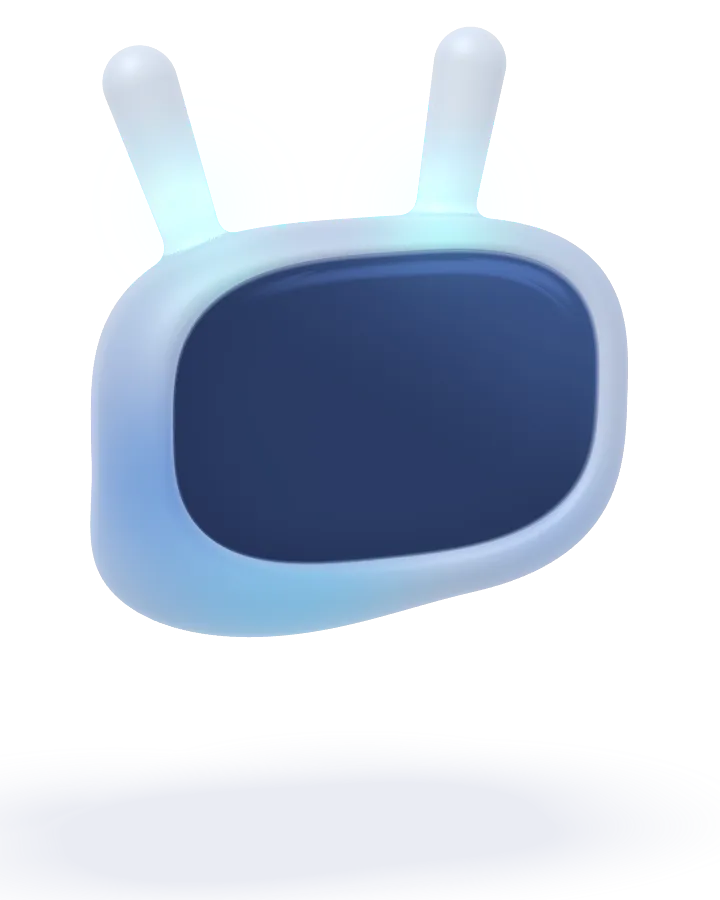
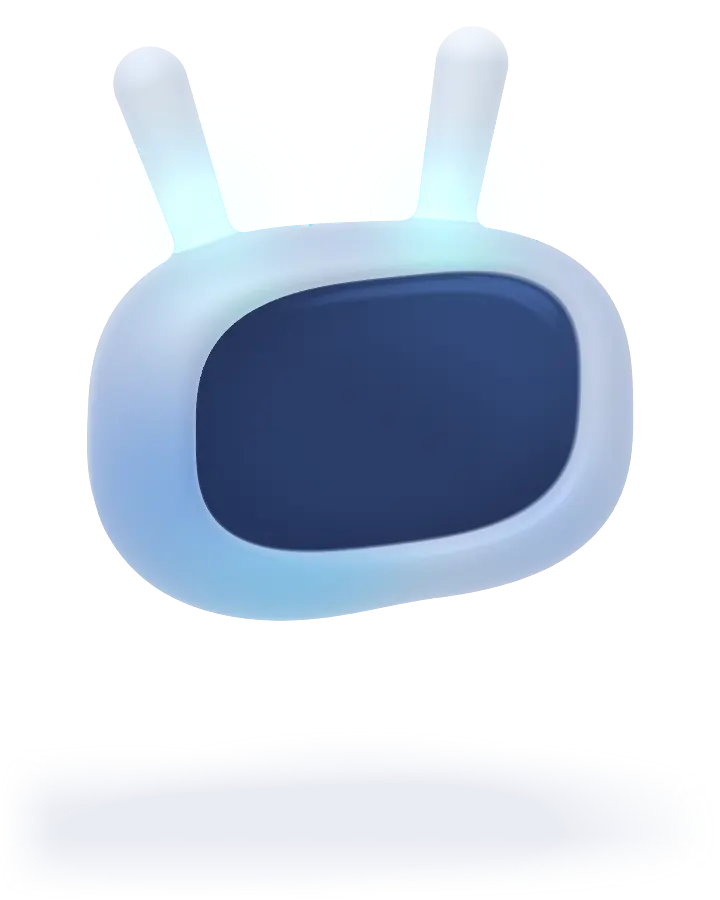
Tune Tall; fix idle-biased tier upgrades; posters, tap checks, report
- Tall: slim neck widening to the chest, mitten hand with a thumb,
  feet that flare into the leg, measured screen and 6° eye line,
  sampled blues on torso and limbs; IoU 0.901 (target 0.90)
- tier: samples taken at the idle ~20 fps only count toward stepping
  down; stepping up needs full-rate samples (Auto stepped up to High
  on a software GPU while idle)
- posters re-rendered from the final shapes (36–37 KB each)
- check:runtime also verifies tap hit-testing (WebGL and Low tiers);
  bench syncs on a 1-pixel readback (gl.finish returns early)
- REPORT.md with sizes, IoU and colour before/after, frame times

Claude-Session: https://claude.ai/code/session_01KKtKDkBDLmha6yDUenA8xH

diff --git a/src/variants.ts b/src/variants.ts
@@ -101,45 +101,49 @@ g += blob(t, vec3(0.0,-1.7,0.25), 0.3, vec3(0.5,0.8,0.9), 0.7);`,
   },
   tall: {
     label: 'Tall', floating: false, P0: [0, -0.6, 0], pivot: [0, -0.6, 0],
-    HS: [1, 0.7, 0.5], HN: 2.4, HE: 0.46, SHEAR: 0.07, TAPER: 0.0,
-    SH: [0.84, 0.52], SN: 3.0, SO: [0.0, 0.05], span: 1.0,
+    HS: [1.0, 0.7, 0.5], HN: 2.4, HE: 0.5, SHEAR: 0.06, SSHEAR: 0.103, TAPER: 0.0,
+    SH: [0.76, 0.465], SN: 3.0, SO: [-0.037, 0.05], span: 1.0,
     A: { bl: [-0.6, 0.53, -0.1], ml: [-0.685, 0.835, -0.1], tl: [-0.77, 1.14, -0.1], br: [0.41, 0.53, -0.12], mr: [0.435, 0.905, -0.12], tr: [0.46, 1.28, -0.12], r: [0.12, 0.125, 0.135] },
     warm: 0,
     extra: '',
+    // slim neck widening to the chest, flat flared feet, mitten hand with a thumb (MEASUREMENTS.md)
     body: `vec3 q = pb;
-float d = sdRC(vec3(q.x,q.y,q.z*1.3), vec3(-0.0200,-0.5800,0.0), vec3(-0.0200,-1.8000,0.0), 0.3200, 0.4200)/1.3;
-d = smin(d, sdEll(q-vec3(-0.0200,-1.2700,0.0), vec3(0.4200,0.6500,0.31)), 0.3000);
-float lg = min(sdRC(q, vec3(-0.2600,-2.0300,0.0), vec3(-0.2800,-3.8700,0.02), 0.1300, 0.1250), sdRC(q, vec3(0.2500,-2.0300,0.0), vec3(0.2700,-3.8700,0.02), 0.1350, 0.1250));
-lg = smin(lg, min(sdEll(q-vec3(-0.3600,-3.9500,0.06), vec3(0.2400,0.11,0.26)), sdEll(q-vec3(0.3000,-3.9500,0.06), vec3(0.2600,0.11,0.27))), 0.1);
+float d = sdRC(vec3(q.x,q.y,q.z*1.3), vec3(0.0000,-0.6200,0.0), vec3(0.0000,-1.7900,0.0), 0.2600, 0.4100)/1.3;
+d = smin(d, sdEll(q-vec3(0.0000,-1.1700,0.0), vec3(0.4600,0.6800,0.31)), 0.3000);
+float lg = min(sdRC(q, vec3(-0.2400,-1.9700,0.0), vec3(-0.2600,-3.9000,0.02), 0.1450, 0.1250), sdRC(q, vec3(0.2600,-1.9700,0.0), vec3(0.2800,-3.9000,0.02), 0.1500, 0.1250));
+lg = smin(lg, min(sdEll(q-vec3(-0.3000,-3.9500,0.06), vec3(0.2500,0.1,0.25)), sdEll(q-vec3(0.3000,-3.9500,0.06), vec3(0.2600,0.1,0.26))), 0.24);
 d = smin(d, lg, 0.1);
-vec3 l = q - vec3(-0.4600,-0.9600,0.0); l.xy = mat2(uArm.x,uArm.y,-uArm.y,uArm.x)*l.xy;
-float al = smin(sdRC(l, vec3(0.0), vec3(-0.2000,-0.4200,0.02), 0.1200, 0.1150), sdRC(l, vec3(-0.2000,-0.4200,0.02), vec3(-0.3800,-1.1200,0.04), 0.1150, 0.1050), 0.05);
-al = smin(al, sdEll(l-vec3(-0.3800,-1.5200,0.05), vec3(0.12,0.24,0.085)), 0.08);
-al = min(al, min(sdRC(l, vec3(-0.4500,-1.6200,0.06), vec3(-0.4700,-1.8000,0.09), 0.038, 0.034), sdRC(l, vec3(-0.3200,-1.6600,0.08), vec3(-0.3100,-1.8200,0.11), 0.038, 0.034)));
-vec3 r = q - vec3(0.5200,-1.0100,0.0); r.xy = mat2(uArm.z,uArm.w,-uArm.w,uArm.z)*r.xy;
+vec3 l = q - vec3(-0.4900,-1.0200,0.0); l.xy = mat2(uArm.x,uArm.y,-uArm.y,uArm.x)*l.xy;
+float al = smin(sdRC(l, vec3(0.0), vec3(-0.2000,-0.4300,0.02), 0.1150, 0.1100), sdRC(l, vec3(-0.2000,-0.4300,0.02), vec3(-0.3600,-1.2200,0.04), 0.1100, 0.0950), 0.05);
+vec3 hl = l - vec3(-0.3400,-1.4920,0.05);
+float hand = sdEll(hl, vec3(0.1400,0.3200,0.085));
+hand = min(hand, sdRC(hl, vec3(0.06,0.12,0.01), vec3(0.1900,-0.02,0.03), 0.045, 0.04));
+al = smin(al, hand, 0.07);
+vec3 r = q - vec3(0.5200,-0.9950,0.0); r.xy = mat2(uArm.z,uArm.w,-uArm.w,uArm.z)*r.xy;
 vec3 E = vec3(0.6500,0.1300,0.04);
-float ar = sdRC(r, vec3(0.0), E, 0.125, 0.115);
+float ar = sdRC(r, vec3(0.0), E, 0.13, 0.115);
 vec3 f = r - E; f.xy = mat2(uArm2.x,uArm2.y,-uArm2.y,uArm2.x)*f.xy;
-ar = smin(ar, sdRC(f, vec3(0.0), vec3(0.2500,0.3600,0.01), 0.115, 0.105), 0.05);
-vec3 hp = f - vec3(0.3400,0.6400,0.01);
-float hand = sdEll(hp, vec3(0.17,0.19,0.09));
-hand = min(hand, sdRC(hp, vec3(-0.1,0.07,0.0), vec3(-0.22,0.2,0.0), 0.05, 0.048));
-hand = min(hand, sdRC(hp, vec3(-0.03,0.11,0.0), vec3(-0.08,0.29,0.0), 0.052, 0.05));
-hand = min(hand, sdRC(hp, vec3(0.04,0.11,0.0), vec3(0.06,0.3,0.0), 0.052, 0.048));
-hand = min(hand, sdRC(hp, vec3(0.11,0.07,0.0), vec3(0.2,0.24,0.0), 0.048, 0.045));
-hand = min(hand, sdRC(hp, vec3(-0.12,-0.04,0.0), vec3(-0.27,0.04,0.02), 0.052, 0.048));
-ar = smin(ar, hand, 0.06);
+ar = smin(ar, sdRC(f, vec3(0.0), vec3(0.2500,0.3300,0.01), 0.115, 0.105), 0.05);
+vec3 hp = f - vec3(0.3400,0.6100,0.01);
+float hd = sdEll(hp, vec3(0.18,0.2,0.09));
+hd = min(hd, sdRC(hp, vec3(-0.1,0.07,0.0), vec3(-0.23,0.21,0.0), 0.052, 0.05));
+hd = min(hd, sdRC(hp, vec3(-0.03,0.11,0.0), vec3(-0.08,0.31,0.0), 0.054, 0.052));
+hd = min(hd, sdRC(hp, vec3(0.04,0.11,0.0), vec3(0.06,0.32,0.0), 0.054, 0.05));
+hd = min(hd, sdRC(hp, vec3(0.11,0.07,0.0), vec3(0.21,0.25,0.0), 0.05, 0.047));
+hd = min(hd, sdRC(hp, vec3(-0.12,-0.04,0.0), vec3(-0.28,0.04,0.02), 0.054, 0.05));
+ar = smin(ar, hd, 0.06);
 return smin(d, min(al, ar), 0.08);`,
-    // saturated blue torso (cobalt chest, cyan belly) fading to light blue down the legs and arm
     glow: `g += blob(ph, vec3(-0.2,-0.55,0.15), 0.3, vec3(0.26,0.45,0.82), 0.6);
-g += blob(pb, vec3(0.04,-1.45,0.22), 0.45, vec3(0.2,0.66,0.92), 2.4);
-g += blob(pb, vec3(0.0,-1.0,0.2), 0.34, vec3(0.2,0.42,0.84), 1.8);
+g += blob(pb, vec3(0.02,-1.5,0.22), 0.36, vec3(0.18,0.68,0.93), 2.2);
+g += blob(pb, vec3(0.02,-0.98,0.2), 0.3, vec3(0.18,0.36,0.82), 2.0);
 g += blob(pb, vec3(0.04,-2.0,0.2), 0.36, vec3(0.4,0.72,0.92), 1.2);
-g += blob(pb, vec3(-0.22,-2.65,0.05), 0.32, vec3(0.55,0.76,0.93), 0.8);
-g += blob(pb, vec3(0.28,-2.65,0.05), 0.32, vec3(0.55,0.76,0.93), 0.8);
+g += blob(pb, vec3(-0.22,-2.6,0.05), 0.34, vec3(0.5,0.74,0.93), 1.3);
+g += blob(pb, vec3(0.28,-2.6,0.05), 0.34, vec3(0.5,0.74,0.93), 1.3);
+g += blob(pb, vec3(-0.25,-3.4,0.05), 0.3, vec3(0.58,0.78,0.93), 0.9);
+g += blob(pb, vec3(0.3,-3.4,0.05), 0.3, vec3(0.58,0.78,0.93), 0.9);
 g += blob(pb, vec3(-0.64,-1.65,0.04), 0.32, vec3(0.55,0.74,0.92), 0.7);`,
-    ground: -4.07, bound: { c: [0.35, -1.45, 0], r: 3.05 }, frame: { y0: -4.11, y1: 1.45, x0: -1.15, x1: 1.9 },
-    rest: { yaw: 0.12, pitch: 0.02, roll: 0, hyaw: 0.1, hpitch: 0, hroll: 0 }
+    ground: -4.015, bound: { c: [0.35, -1.45, 0], r: 3.05 }, frame: { y0: -4.055, y1: 1.45, x0: -1.15, x1: 1.9 },
+    rest: { yaw: 0.09, pitch: 0.02, roll: 0, hyaw: 0.1, hpitch: 0, hroll: 0 }
   }
 };
 

diff --git a/src/tier.ts b/src/tier.ts
@@ -1,5 +1,9 @@
 // Picks the quality tier from measured frame time. Starts at Medium; Medium also
 // scales its drawing buffer (0.6–1×, like the prototype) before giving up to Low.
+//
+// Samples taken while the loop idles at ~20 fps are optimistic: with 50 ms between draws the
+// GPU rarely backs up enough to delay the next display frame. So they may only ever count as
+// evidence of slowness; stepping up needs samples from full-rate drawing.
 
 export type Tier = 'high' | 'medium' | 'low';
 export type TierSetting = 'auto' | Tier;
@@ -17,6 +21,8 @@ export class TierAuto {
   ema = 0;
   private sum = 0;
   private n = 0;
+  private sumFull = 0;
+  private nFull = 0;
   private win = 0;
   private skipUntil = 0;
   private bad = 0;
@@ -24,20 +30,27 @@ export class TierAuto {
   private highFailed = false;
 
   /** Call after any tier/scale/program change: the next frames are not representative. */
-  settle(now: number): void { this.skipUntil = now + WARMUP_MS; this.sum = this.n = 0; this.win = now + WARMUP_MS; }
+  settle(now: number): void {
+    this.skipUntil = now + WARMUP_MS; this.win = now + WARMUP_MS;
+    this.sum = this.n = this.sumFull = this.nFull = 0;
+  }
 
-  sample(ms: number, now: number): void {
+  /** `full`: the loop was drawing every frame (not the idle ~20 fps). */
+  sample(ms: number, now: number, full: boolean): void {
     if (ms <= 0 || ms > 1000) return; // debugger pauses, stalls (resume resets timing)
     this.ema = this.ema ? this.ema * 0.92 + ms * 0.08 : ms;
     if (now < this.skipUntil) return;
     this.sum += ms; this.n++;
+    if (full) { this.sumFull += ms; this.nFull++; }
   }
 
   /** Evaluates the current window; returns a step to take, if any. */
   decide(now: number, tier: Tier): TierStep {
     if (tier === 'low' || now - this.win < WINDOW_MS || this.n < MIN_SAMPLES) return null;
     const mean = this.sum / this.n;
-    this.sum = this.n = 0; this.win = now;
+    // fast only counts when measured at full rate, and only if the whole window agrees
+    const fast = this.nFull >= MIN_SAMPLES && this.sumFull / this.nFull < FAST && mean < FAST;
+    this.sum = this.n = this.sumFull = this.nFull = 0; this.win = now;
     if (tier === 'high') {
       if (mean > HIGH_MAX) { this.highFailed = true; this.good = 0; return 'medium'; }
       return null;
@@ -49,7 +62,7 @@ export class TierAuto {
       return null;
     }
     this.bad = 0;
-    if (mean < FAST) {
+    if (fast) {
       if (++this.good < 2) return null;
       this.good = 0;
       if (this.scale < 0.99) { this.scale = Math.min(1, this.scale + 0.1); return 'scale'; }

diff --git a/harness/harness.ts b/harness/harness.ts
@@ -307,7 +307,8 @@ async function still(version: Version, w: number, h: number, level: Level): Prom
   return toURL(c);
 }
 
-/** Mean draw + finish time per level at the 750 px drawing-buffer cap (4:3 stage). */
+/** Mean draw time per level at the 750 px drawing-buffer cap (4:3 stage); a 1-pixel readPixels
+ * waits for the GPU (gl.finish() returns early in Chrome's GPU process). */
 async function drawCost(version: Version, levels: Level[], n: number): Promise<Array<{ level: Level; ms: number; w: number; h: number; n: number }>> {
   const h = 750, w = 1000, out: Array<{ level: Level; ms: number; w: number; h: number; n: number }> = [];
   const c = document.createElement('canvas'); c.width = w; c.height = h;
@@ -318,9 +319,10 @@ async function drawCost(version: Version, levels: Level[], n: number): Promise<A
   const world = Rig.restWorld(version), cam = framing(VARIANTS[version], w, h);
   for (const level of levels) {
     while (r.request(version, level) === 'pending') await new Promise(res => setTimeout(res, 20));
-    r.draw(version, level, world, cam, w, h); r.gl.finish(); // warm-up
+    const px = new Uint8Array(4), sync = (): void => { r.gl.readPixels(0, 0, 1, 1, r.gl.RGBA, r.gl.UNSIGNED_BYTE, px); };
+    r.draw(version, level, world, cam, w, h); sync(); // warm-up
     const t0 = performance.now();
-    for (let i = 0; i < n; i++) { r.draw(version, level, world, cam, w, h); r.gl.finish(); }
+    for (let i = 0; i < n; i++) { r.draw(version, level, world, cam, w, h); sync(); }
     out.push({ level, ms: (performance.now() - t0) / n, w, h, n });
   }
   r.destroy();

diff --git a/src/guide.ts b/src/guide.ts
@@ -135,6 +135,7 @@ class Guide implements GuideController {
   private raf = 0;
   private prevRaf = 0;
   private drewPrev = false;
+  private prevFull = false;
   private lastDraw = 0;
   private lastTick = 0;
   private activeUntil = 0;
@@ -310,10 +311,11 @@ class Guide implements GuideController {
 
   private frame = (now: number): void => {
     this.raf = requestAnimationFrame(this.frame);
-    if (this.drewPrev && this.prevRaf) this.auto.sample(now - this.prevRaf, now);
+    if (this.drewPrev && this.prevRaf) this.auto.sample(now - this.prevRaf, now, this.prevFull);
     this.prevRaf = now; this.drewPrev = false;
     this.readPointer();
     const active = this.isActive(now), low = this.tierNow === 'low';
+    this.prevFull = active;
     const gap = low ? (active ? 33 : 50) : active ? 0 : 50;
     if (now - this.lastDraw < gap - 4) return;
 

diff --git a/REPORT.md b/REPORT.md
@@ -1,0 +1,116 @@
+# kaykav-guide: session report
+
+## Commands
+
+- `npm run build`: exit 0. Vite: `dist/kaykav-guide.js 72.86 kB │ gzip: 23.57 kB`, `dist/react.js 2.45 kB │ gzip: 1.10 kB`. Posters 36–37 KB each.
+- `npm run typecheck`: exit 0.
+- `npm run lint`: exit 0.
+- `npm run fidelity`: exit 0; all four versions meet their targets (table below).
+- `npm run faces`: exit 0; 33 faces; worst flash rate is Talking at 2 per second (limit 3).
+- `npm run check:runtime`: 13/13 checks pass.
+- `npm run check:react`: passes under React StrictMode.
+- `npm run posters`: exit 0; 36.2 / 36.9 / 37.4 / 36.6 KB (limit 40 KB).
+- `npm run bench`: numbers below.
+
+## Size
+
+Core JS is **23.57 kB gzipped** (Vite's build output), against a 35 KB budget. `scripts/size.mjs`
+measures 22.85 KiB at gzip -9. The React wrapper adds 1.10 kB and imports the core. Nothing else
+loads at runtime except one ≤ 40 KB WebP poster, and only when the Low tier is shown.
+
+## Silhouette IoU, before → after
+
+"Before" is the original `handoff/prototype/kaykav-guide.html`, captured through the same loop
+(`npm run fidelity -- --prototype`). The loop follows MEASUREMENTS.md, plus two rules that drop
+floor shadows from the reference masks (see README). Those rules change the reference masks, so the
+handoff's own numbers are listed separately; they don't compare directly.
+
+| Version | Handoff (v2) | Before (prototype, this loop) | After | Target |
+|---|---|---|---|---|
+| Head | 0.886 | 0.889 | **0.940** | ≥ 0.92 |
+| Pod | 0.864 | 0.901 | **0.933** | ≥ 0.92 |
+| Buddy | 0.892 | 0.888 | **0.942** | ≥ 0.92 |
+| Tall | 0.760 | 0.792 | **0.901** | ≥ 0.90 |
+
+Colour, as mean ΔE (CIELAB) between the same-scale side-by-sides, cell by cell over the
+character, with glyphs excluded. Lower is better:
+
+| Version | Before | After |
+|---|---|---|
+| Head | 13.6 | 10.2 |
+| Pod | 12.4 | 9.0 |
+| Buddy | 14.4 | 10.7 |
+| Tall | 12.3 | 9.7 |
+
+Screen and eye line, measured on the renders against the references (head half-width = 1):
+
+| Version | Screen half-size, ref → ours | Eye line, ref → before → ours |
+|---|---|---|
+| Head | 0.709×0.501 → 0.704×0.512 | 6.3° → 3.1° → 6.3° |
+| Pod | 0.761×0.512 → 0.757×0.512 | 6.5° → 1.5° → 6.4° |
+| Buddy | 0.760×0.512 → 0.750×0.515 | 6.5° → 1.5° → 6.8° |
+| Tall | 0.757×0.486 → 0.755×0.481 | 6.0° → 1.8° → 6.0° |
+
+What closed the gaps:
+- **Every head:** the screen opening now has its own shear, separate from the outer shell, so the
+  eye line rises about 6.4° as measured without tilting the silhouette. Screens are resized to the
+  measured openings. Faces follow MEASUREMENTS: ring ≈ 0.15 of screen width, stroke 0.03, eyes 0.50 apart.
+- **Head:** the body is wider and the top rim lower. The bottom-left lobe is smaller. The left-side
+  glow is less saturated.
+- **Pod:** the left side recedes toward the bottom. The glow now has the cyan patch left of
+  centre, the cobalt patch right, and a pale bottom-left. The bulbs are calmer and the stems wider.
+- **Buddy:** the torso is nearly straight-sided and narrows to the crotch. Legs are short columns
+  at the measured positions. The head corners are rounder and the left arm sits higher.
+- **Tall:** a slim neck widens to the chest. The left hand is a mitten with a thumb, and the feet
+  flare into the leg. The torso and limbs carry the sampled blues.
+- **Material:** floor bounce on undersides, lighter AO, the sampled screen palette, and less
+  contrast between the lit and shadow sides. The antenna highlight is now a broad, dim sheen,
+  not a dot.
+- **Screen-to-rim seam:** the High tier supersamples silhouette, grazing and seam pixels
+  (5 samples). The stair-stepping is gone at 280×360 (`fidelity/_work` comparison, not committed).
+
+Shape parameters came from a bounded local search on IoU at low resolution. Every result was then
+checked on the side-by-sides. Where the search was chasing mask artefacts, I pulled the values back
+to MEASUREMENTS.md: the left antenna root on Head, the leg length and thickness on Buddy, and the
+torso shape on Tall. For Buddy that cost IoU at first, until the floor-shadow rule fixed the
+reference mask itself.
+
+## Frame time per tier on this machine
+
+This machine has no GPU: headless Chromium with SwiftShader (software WebGL) on 4 CPU cores. These
+numbers say nothing about a phone except that the tier logic reacts correctly. Buddy, 500 CSS px
+stage at DPR 1, pointer kept moving so the loop draws every frame:
+
+| Tier | Mean frame interval | FPS | Buffer |
+|---|---|---|---|
+| High | 1417 ms | 0.7 | 591×498 |
+| Medium | 767 ms | 1.3 | 591×498 |
+| Low | 16.7 ms | 60 | poster + 2D face |
+
+Raw GPU time per frame at the 1000×750 buffer cap (draw plus a synchronising 1-pixel readback):
+Medium 575 / 638 / 959–1137 / 1328 ms and High 979 / 1069 / 1757–2138 / 2418 ms for
+Head / Pod / Buddy / Tall. High costs about 1.8× Medium. Auto, left to itself here, steps down to Low
+with "slow frames", which is the right call for a software renderer. On a real GPU, Medium and High
+should be one to two orders of magnitude faster; I could not measure that here.
+
+## Things to know / not finished
+
+- **No real-device numbers.** Every frame time above is from software WebGL. The tier thresholds
+  (Medium scales down above 24 ms, goes to Low above 30 ms at 0.6×, steps up below 18.5 ms) are
+  untested on a mid-range Android phone. That is the first thing to try on hardware.
+- **Tall is only just over target**, at 0.901. It is the version where IoU and looks pulled
+  hardest against each other; any further shape change there needs a re-run of `npm run fidelity`.
+- **Medium keeps the prototype's single-sample edges.** The seam and silhouette stair-step slightly
+  at small sizes. Only High supersamples, as specified.
+- **Colour is closer but not matched.** ΔE is still 9–11. The Head and Pod references disagree on
+  the screen colour (Head's screen is lighter steel blue, Pod's a deeper blue), so the screen uses
+  the sampled palette from MEASUREMENTS.md and doesn't follow either render exactly.
+- **Untested paths:** the asynchronous compile (`KHR_parallel_shader_compile` is not exposed by
+  SwiftShader, so only the synchronous path ran), WebGL context loss and restore, and real touch
+  input.
+- **Next.js:** checked only in a StrictMode React harness, not in an App Router app. Posters must be
+  copied to `public/` and passed as `posterBase` (README explains why).
+- **Antenna roots and the Pod bulbs** drop out of the reference masks (as MEASUREMENTS.md warns). I
+  judged them by eye only.
+- **Faces:** the shapes match the sheet cell for cell (`fidelity/faces-vs-sheet.jpg`). The sheet's
+  glow is a touch heavier than ours at tile size.

diff --git a/README.md b/README.md
@@ -5,7 +5,7 @@ fragment shader draws a frosted-resin character with colour glowing inside it, a
 canvas draws the screen face. Four versions (Head, Pod, Buddy, Tall), 33 expressions,
 pointer-follow, spring antennas, tap reactions.
 
-- Zero runtime dependencies, no 3D library. Core is ~23 KB gzipped (`npm run build` prints it).
+- Zero runtime dependencies, no 3D library. Core is 23.6 kB gzipped (`npm run build` prints it).
 - Never taller than 500 CSS px; works down to 280 × 360.
 - Renders nothing until it is within 200 px of the viewport; stops when offscreen or the tab is hidden.
 - Drops to ~20 fps when nothing is changing; picks a quality tier from measured frame time.
@@ -106,12 +106,14 @@ falls back to `/kaykav-guide/posters/`.
 
 | Tier | What it draws | When |
 |---|---|---|
-| **High** | the full shader with 5-sample supersampling on silhouette, grazing and screen-seam pixels, and a 16-step interior march (vs 10) | Auto steps up from Medium after two 1.5 s windows averaging under 18.5 ms per frame at full buffer scale; steps back (for good) if it averages over 21 ms |
+| **High** | the full shader with 5-sample supersampling on silhouette, grazing and screen-seam pixels, and a 16-step interior march (vs 10) | Auto steps up from Medium after two 1.5 s windows averaging under 18.5 ms per frame at full buffer scale, measured while drawing every frame (idle-rate samples never count toward stepping up); steps back (for good) if it averages over 21 ms |
 | **Medium** | prototype quality: single sample, 10-step interior march. Scales its drawing buffer between 0.6× and 1× like the prototype | the start tier. Buffer scale drops 0.15 per window over 24 ms and recovers 0.1 per two windows under 18.5 ms |
 | **Low** | a static WebP poster of the current version, the live 2D face mapped onto its screen with a CSS perspective transform, and a CSS bob | `prefers-reduced-motion`, `navigator.connection.saveData`, no WebGL (or a software-only GPU), a lost context, a shader that fails to compile, or Medium still over 30 ms at 0.6× for two windows |
 
 Frame time is the interval from a drawn frame to the next display frame (so a slow GPU shows up
-as late frames), averaged per 1.5 s window, ignoring 0.6 s after any change.
+as late frames), averaged per 1.5 s window, ignoring 0.6 s after any change. At the idle ~20 fps
+the GPU has 50 ms per draw and rarely delays the next display frame, so idle samples can only
+ever argue for stepping down.
 
 **Pixel budget.** The drawing buffer is `min(cssHeight × devicePixelRatio, 750)` tall
 (× the Medium scale), whatever the window size. The pixel count is bounded, so High spends the
@@ -145,7 +147,7 @@ npm run fidelity   # silhouette IoU vs the references → fidelity/
 npm run faces      # expression grid + flash check → fidelity/faces.png
 npm run posters    # re-render the Low-tier posters → public/posters/
 npm run bench      # frame time per tier on this machine
-npm run check:runtime  # lazy start, offscreen/hidden stop, 20 fps idle, Low for reduced motion / Data Saver, destroy()
+npm run check:runtime  # lazy start, offscreen/hidden stop, 20 fps idle, taps, Low for reduced motion / Data Saver, destroy()
 npm run check:react    # <KayKavGuide /> under React StrictMode
 ```
 
